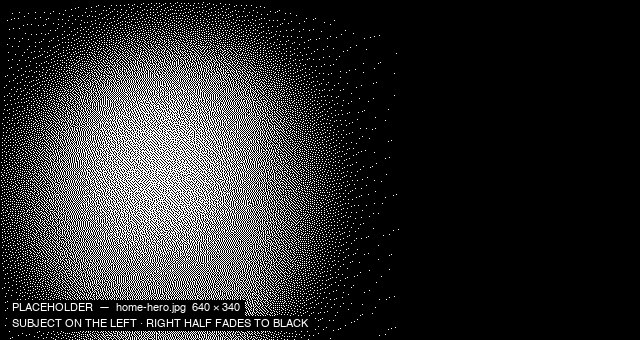
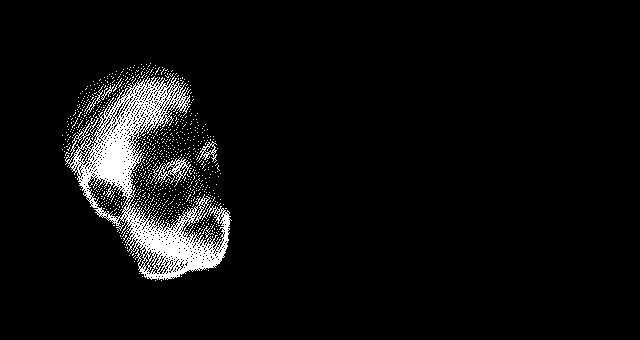
Dario's content pass: bio, loglines, greeting, Books shelf, hero and portrait from photos
Claude-Session: https://claude.ai/code/session_01P5j9jbmsWiQrtFbzW8fDJX

Changed region(s): [[0.0, 0.0294, 0.5312, 1.0]]

diff --git a/tools/hero.py b/tools/hero.py
@@ -1,0 +1,128 @@
+#!/usr/bin/env python3
+"""Turn one of Dario's photographs into the home hero.
+
+Same recipe as the strips and the placeholder hero (tools/placeholders.py):
+grey → tone → blur → grain → fade to black on the right → Floyd–Steinberg
+to pure black and white. The dither is what makes it read as a ghost in the
+static; everything before it only shapes the tonal curve the dither sees.
+
+    python3 tools/hero.py path/to/photo.jpg              # writes home-hero.jpg
+    python3 tools/hero.py photo.jpg --sheet /tmp/sheet.jpg  # + contact sheet of variants
+    python3 tools/hero.py photo.jpg --anchor center --flip --gamma 1.6 --blur 2
+
+Start from a CLEAN photo: unfiltered, colour is fine, wider than 640px.
+Side light and a dark background dither best; flat light turns to mush.
+"""
+import argparse
+from pathlib import Path
+
+from PIL import Image, ImageDraw, ImageFilter, ImageOps
+
+from placeholders import IMG, dither, grain
+
+W, H = 640, 340
+BLACK_FROM = 400  # the greeting sits right of here and needs clean ground
+
+
+def frame(im, anchor="left", zoom=1.0, fit=False):
+    """Cover-crop to 640×340. `anchor` picks which part of the photo survives
+    when the aspect doesn't match; `zoom` > 1 crops tighter. `fit` instead
+    scales the whole photo to the frame height and sets it on black at the
+    anchor — right for a portrait that already sits on a dark ground."""
+    im = ImageOps.exif_transpose(im).convert("L")
+    if fit:
+        scale = H / im.height * zoom
+        im = im.resize((round(im.width * scale), round(im.height * scale)), Image.LANCZOS)
+        canvas = Image.new("L", (W, H), 0)
+        x = {"left": 0, "center": (W - im.width) // 2, "right": W - im.width}[anchor]
+        canvas.paste(im, (x, (H - im.height) // 2))
+        return canvas
+    scale = max(W / im.width, H / im.height) * zoom
+    im = im.resize((round(im.width * scale), round(im.height * scale)), Image.LANCZOS)
+    x = {"left": 0, "center": (im.width - W) // 2, "right": im.width - W}[anchor]
+    y = (im.height - H) // 2
+    return im.crop((x, y, x + W, y + H))
+
+
+def tone(im, gamma=1.3, cutoff=1):
+    """Stretch the levels, then sink the midtones so the face rises out of
+    black instead of floating on grey."""
+    im = ImageOps.autocontrast(im, cutoff=cutoff)
+    lut = [round(255 * (v / 255) ** gamma) for v in range(256)]
+    return im.point(lut)
+
+
+def fade(im, start=100):
+    """Right-hand fade to black, same mask as the placeholder hero, then a
+    hard black block where the text goes. `start` (0–255 across the width,
+    100 ≈ x=250) is where the fade begins; the placeholder used 100."""
+    mask = Image.linear_gradient("L").rotate(90, expand=True).resize((W, H))
+    span = max(1, 180 - start)
+    mask = mask.point(lambda v: 255 if v < start else max(0, 255 - int((v - start) * 255 / span)))
+    im = Image.composite(im, Image.new("L", (W, H), 0), mask)
+    ImageDraw.Draw(im).rectangle((BLACK_FROM, 0, W, H), fill=0)
+    return im
+
+
+def render(src, anchor="left", zoom=1.0, flip=False, fit=False, fade_start=100,
+           invert=False, trim=0, gamma=1.3, blur=1.5, grain_amount=18):
+    src = ImageOps.exif_transpose(src).convert("L")
+    if trim:
+        src = src.crop((trim, trim, src.width - trim, src.height - trim))
+    if invert:
+        src = ImageOps.invert(src)
+    im = frame(src, anchor, zoom, fit)
+    if flip:
+        im = ImageOps.mirror(im)
+    im = tone(im, gamma)
+    if blur:
+        im = im.filter(ImageFilter.GaussianBlur(blur))
+    if grain_amount:
+        im = grain(im, grain_amount)
+    return dither(fade(im, fade_start))
+
+
+def contact_sheet(src, path, **kw):
+    """A few gamma/blur pairings side by side, labelled, so the pick is by eye."""
+    variants = [(1.0, 1.0), (1.3, 1.5), (1.6, 1.5), (1.6, 3.0), (2.0, 2.0), (1.3, 0)]
+    cols, pad = 2, 16
+    rows = (len(variants) + cols - 1) // cols
+    sheet = Image.new("L", (cols * (W + pad) + pad, rows * (H + pad + 18) + pad), 60)
+    d = ImageDraw.Draw(sheet)
+    for i, (g, b) in enumerate(variants):
+        tile = render(src, gamma=g, blur=b, **kw)
+        x = pad + (i % cols) * (W + pad)
+        y = pad + (i // cols) * (H + pad + 18)
+        sheet.paste(tile, (x, y))
+        d.text((x, y + H + 4), f"gamma {g}   blur {b}", fill=255)
+    sheet.save(path, quality=85)
+
+
+def main():
+    p = argparse.ArgumentParser(description=__doc__, formatter_class=argparse.RawDescriptionHelpFormatter)
+    p.add_argument("photo")
+    p.add_argument("--out", default=str(IMG / "home-hero.jpg"))
+    p.add_argument("--anchor", choices=["left", "center", "right"], default="left")
+    p.add_argument("--zoom", type=float, default=1.0)
+    p.add_argument("--flip", action="store_true", help="mirror, if the face is on the wrong side")
+    p.add_argument("--trim", type=int, default=0, help="crop this many px off every edge of the source first (kills scan borders)")
+    p.add_argument("--invert", action="store_true", help="negative first, for a subject on white")
+    p.add_argument("--fit", action="store_true", help="scale to frame height and set on black instead of cover-cropping")
+    p.add_argument("--fade-start", type=int, default=100, help="0-255 across the width; where the fade to black begins")
+    p.add_argument("--gamma", type=float, default=1.3, help=">1 darkens midtones")
+    p.add_argument("--blur", type=float, default=1.5)
+    p.add_argument("--grain", type=float, default=18)
+    p.add_argument("--sheet", help="also write a contact sheet of variants here")
+    a = p.parse_args()
+
+    src = Image.open(a.photo)
+    kw = dict(anchor=a.anchor, zoom=a.zoom, flip=a.flip, fit=a.fit, fade_start=a.fade_start, invert=a.invert, trim=a.trim)
+    render(src, gamma=a.gamma, blur=a.blur, grain_amount=int(a.grain), **kw).save(a.out, quality=88)
+    print("wrote", a.out)
+    if a.sheet:
+        contact_sheet(src, a.sheet, grain_amount=int(a.grain), **kw)
+        print("wrote", a.sheet)
+
+
+if __name__ == "__main__":
+    main()

diff --git a/tools/placeholders.py b/tools/placeholders.py
@@ -6,6 +6,7 @@ grey stand-ins that name themselves and their size. Dario overwrites each
 file with his own picture, same filename, and nothing else changes.
 
 Exception: the strips under src/assets/img/strip/ are the real thing — see strips().
+For the real hero from a photograph, use tools/hero.py (same recipe, real subject).
 
 Pillow only. Fonts fall back to Pillow's bitmap font if Helvetica isn't found.
 """

diff --git a/EDITING.md b/EDITING.md
@@ -37,7 +37,7 @@ picture over it, **same filename**, and you're done:
 
 | File | Size | Notes |
 |---|---|---|
-| `src/assets/img/home-hero.jpg` | 640 × 340 | Black and white. You on the LEFT. Right half fades to black — the greeting sits on it. |
+| `src/assets/img/home-hero.jpg` | 640 × 340 | Black and white. You on the LEFT. Right half fades to black — the greeting sits on it. Or let the script make it from a photo: `python3 tools/hero.py photo.jpg` (add `--sheet out.jpg` for a contact sheet of variants, `--fit` for a portrait on a dark ground, `--invert` for a subject on white). |
 | `src/assets/img/portrait.jpg` | 200 × 260 | About page. |
 | `src/assets/img/strip/01.jpg` … `06.jpg` | 640 × 40 | Not placeholders — the dithered static stays. One shows at random per visit. To add one, drop a 640×40 file in and list it under `strips` in `site.json`. |
 | `src/assets/img/signature.png` | 240 × 60 | Transparent PNG, white ink. Delete the `signature` line in `site.json` to drop it. |
@@ -52,10 +52,27 @@ again from `start`.
 
 ## Writing
 
-Copy `WRITING-TEMPLATE.md` into `src/writing/`, rename it (the filename is the URL:
-`the-door.md` → `/read/the-door/`), fill in title and date, write in Markdown, delete
-`draft: true`. It appears under READ SOMETHING on its own. `featured: true` puts it in
-START HERE.
+**Stories and essays** live in `src/writing/`, one Markdown file each. Copy
+`WRITING-TEMPLATE.md` in, rename it (the filename is the URL: `the-door.md` → `/read/the-door/`),
+fill in the top, write in Markdown, delete `draft: true`. `kind: story` or `kind: essay`
+picks the shelf on READ SOMETHING; `first` + `firstUrl` are the optional "first published
+in…" line. Delete a file to unpublish it.
+
+**Poems** live in `src/poems/`, same idea: a file per poem, the filename is the URL
+(`/poems/the-ocean/`). The top of the file is
+
+```
+---
+title: The Ocean
+year: 2024          (optional, shows in grey)
+order: 5            (position on the POEMS page — lower is higher)
+lang: it            (only for Italian ones — adds the ITALIAN tag)
+gloss: "…"          (optional grey line under the poem, e.g. a rough English sense)
+---
+```
+
+then the poem, exactly as you'd type it: every line break is kept, a blank line is a
+stanza break. `*asterisks*` for italics.
 
 ## Ship it
 
